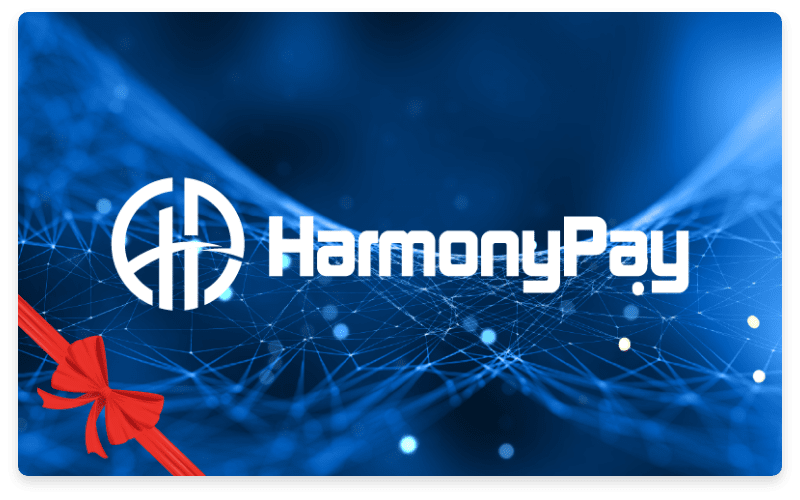
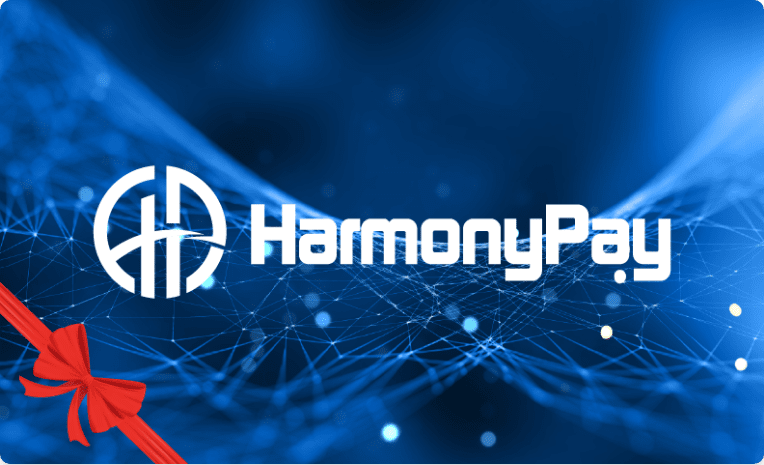
fix card border

diff --git a/src/components/HarmonyCard.js b/src/components/HarmonyCard.js
@@ -90,6 +90,13 @@ export const HarmonyCard = ({ cardId }) => {
             <QRCode value={`${token ?? 'none'}`} size={150} />
             <View style={styles.margin} />
             <Text style={styles.paymentCodeText}>{'Payment code'}</Text>
+            <View
+              style={[
+                styles.amountContent,
+                { backgroundColor: 'transparent' },
+              ]}>
+              <Text style={styles.amountText}>{`$ ${amount}`}</Text>
+            </View>
           </View>
         </Animated.View>
       </View>
@@ -104,8 +111,8 @@ const CardImage = React.memo(({ imageUrl }) => {
     <FastImage
       style={styles.imageCard}
       source={
-        imageUrl
-          ? { uri: imageUrl, priority: FastImage.priority.normal }
+        !!imageUrl
+          ? { uri: imageUrl, priority: FastImage.priority.high }
           : ICONS.card_sample
       }
     />
@@ -120,7 +127,6 @@ const styles = StyleSheet.create({
   container: {
     width: scaleWidth(382),
     height: scaleHeight(232),
-    borderRadius: 5,
     shadowColor: 'rgba(0, 0, 0, 0.16)',
     shadowOffset: {
       width: 0,
@@ -128,12 +134,12 @@ const styles = StyleSheet.create({
     },
     shadowRadius: 6,
     shadowOpacity: 1,
-    backgroundColor: '#fff',
+    elevation: 3,
   },
 
   imageCard: {
     width: '100%',
-    height: scaleHeight(232),
+    height: '100%',
     resizeMode: 'contain',
   },
 
@@ -141,26 +147,22 @@ const styles = StyleSheet.create({
     flex: 1,
     justifyContent: 'center',
     alignItems: 'center',
+    overflow: 'hidden',
+    borderRadius: scaleWidth(6),
+    backgroundColor: '#fff',
   },
 
   amountContent: {
-    height: scaleHeight(40),
-    minWidth: scaleWidth(115),
-    borderRadius: scaleHeight(20),
+    height: scaleHeight(34),
+    minWidth: scaleWidth(80),
+    borderRadius: scaleHeight(17),
     backgroundColor: '#ffffff',
-    shadowColor: 'rgba(0, 0, 0, 0.16)',
-    shadowOffset: {
-      width: 0,
-      height: scaleHeight(3),
-    },
-    shadowRadius: 6,
-    shadowOpacity: 1,
     borderStyle: 'solid',
     borderWidth: 1,
     borderColor: '#ffffff',
     position: 'absolute',
-    top: scaleHeight(10),
-    right: scaleWidth(10),
+    top: scaleHeight(8),
+    right: scaleWidth(8),
     justifyContent: 'center',
     alignItems: 'center',
   },
